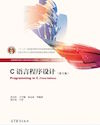
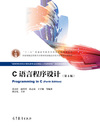
Update new edition

diff --git a/c_language.html b/c_language.html
@@ -27,11 +27,11 @@ body {
     <td><a href="images/cpl_face_big.jpg"><img src="images/cpl_face_small.jpg" alt="教材封面" border="0"></a></td>
     <td><table width="100%"  border="0">
         <tr>
-          <td colspan="2"><span class="style2">C语言程序设计（第3版）</span></td>
+          <td colspan="2"><span class="style2">C语言程序设计（第4版）</span></td>
         </tr>
         <tr>
           <td width="22%"><div align="right">编　　著：</div></td>
-          <td width="78%"><a href="http://cs.hit.edu.cn/?q=node/58" target="_blank">苏小红</a>，<a href="mailto:wangyy@hit.edu.cn">王宇颖</a>，<a href="http://sunner.cn" target="_blank">孙志岗</a>等</td>
+          <td width="78%"><a href="http://cs.hit.edu.cn/?q=node/58" target="_blank">苏小红</a>，赵玲玲，<a href="http://sunner.cn" target="_blank">孙志岗</a>，<a href="mailto:wangyy@hit.edu.cn">王宇颖</a>等</td>
         </tr>
         <tr>
           <td><div align="right">主　　审：</div></td>
@@ -43,15 +43,15 @@ body {
         </tr>
         <tr>
           <td><div align="right">出版日期：</div></td>
-          <td>2015年7月</td>
+          <td>2019年8月</td>
         </tr>
         <tr>
           <td><div align="right">零 售 价：</div></td>
-          <td>43.00元（双色印刷）</td>
+          <td>49.00元（双色印刷）</td>
         </tr>
         <tr>
           <td><div align="right">ISBN号码：</div></td>
-          <td>978-7-04-043316-6</td>
+          <td>978-7-04-051998-3</td>
         </tr>
     </table></td>
   </tr>
@@ -59,11 +59,11 @@ body {
     <td><a href="images/cpl_guide_big.jpg"><img src="images/cpl_guide_small.jpg" alt="教材封面" border="0"></a></td>
     <td><table width="100%"  border="0">
         <tr>
-          <td colspan="2"><span class="style2">C语言程序设计学习指导（第3版）</span></td>
+          <td colspan="2"><span class="style2">C语言程序设计学习指导（第4版）</span></td>
         </tr>
         <tr>
           <td width="22%"><div align="right">编　　著：</div></td>
-          <td width="78%"><a href="http://cs.hit.edu.cn/?q=node/58" target="_blank">苏小红</a>，<a href="http://ir.hit.edu.cn/~car/chinese.htm">车万翔</a>，<a href="http://www.cs.hit.edu.cn/?q=node/440" target="_blank">王甜甜</a>等</td>
+          <td width="78%"><a href="http://cs.hit.edu.cn/?q=node/58" target="_blank">苏小红</a>，<a href="http://www.cs.hit.edu.cn/?q=node/440" target="_blank">王甜甜</a>，赵玲玲，范江波，<a href="http://ir.hit.edu.cn/~car/chinese.htm">车万翔</a>等</td>
         </tr>
         <tr>
           <td><div align="right">主　　审：</div></td>
@@ -75,15 +75,15 @@ body {
         </tr>
         <tr>
           <td><div align="right">出版日期：</div></td>
-          <td>2015年8月</td>
+          <td>2019年9月</td>
         </tr>
         <tr>
           <td><div align="right">零 售 价：</div></td>
-          <td>32.00元</td>
+          <td>35.00元</td>
         </tr>
         <tr>
           <td><div align="right">ISBN号码：</div></td>
-          <td>978-7-04-043320-4</td>
+          <td>978-7-04-052489-5</td>
         </tr>
     </table></td>
   </tr>

diff --git a/index.html b/index.html
@@ -28,8 +28,8 @@ body {
   <tr align="center">
       <td><a href="c_practical.html"><img src="images/4th_face_small.jpg" alt="教材封面" border="0"><br />C语言大学实用教程<br />（第4版）</a></td>
       <td><a href="c_practical.html"><img src="images/guide_4th_small.jpg" alt="教材封面" border="0"><br />C语言大学实用教程<br />学习指导（第4版）</a></td>
-      <td><a href="c_language.html"><img src="images/cpl_face_small.jpg" alt="教材封面" border="0"><br />C语言程序设计<br />（第3版）</a></td>
-      <td><a href="c_language.html"><img src="images/cpl_guide_small.jpg" alt="教材封面" border="0"><br />C语言程序设计<br />学习指导（第3版）</a></td>
+      <td><a href="c_language.html"><img src="images/cpl_face_small.jpg" alt="教材封面" border="0"><br />C语言程序设计<br />（第4版）</a></td>
+      <td><a href="c_language.html"><img src="images/cpl_guide_small.jpg" alt="教材封面" border="0"><br />C语言程序设计<br />学习指导（第4版）</a></td>
   </tr>
   <tr align="center">
       <td><a href="cpp_dual.html"><img src="images/dual_lang_face_small.jpg" alt="教材封面" border="0"><br />双语版C++<br />程序设计（第2版）</a></td>
